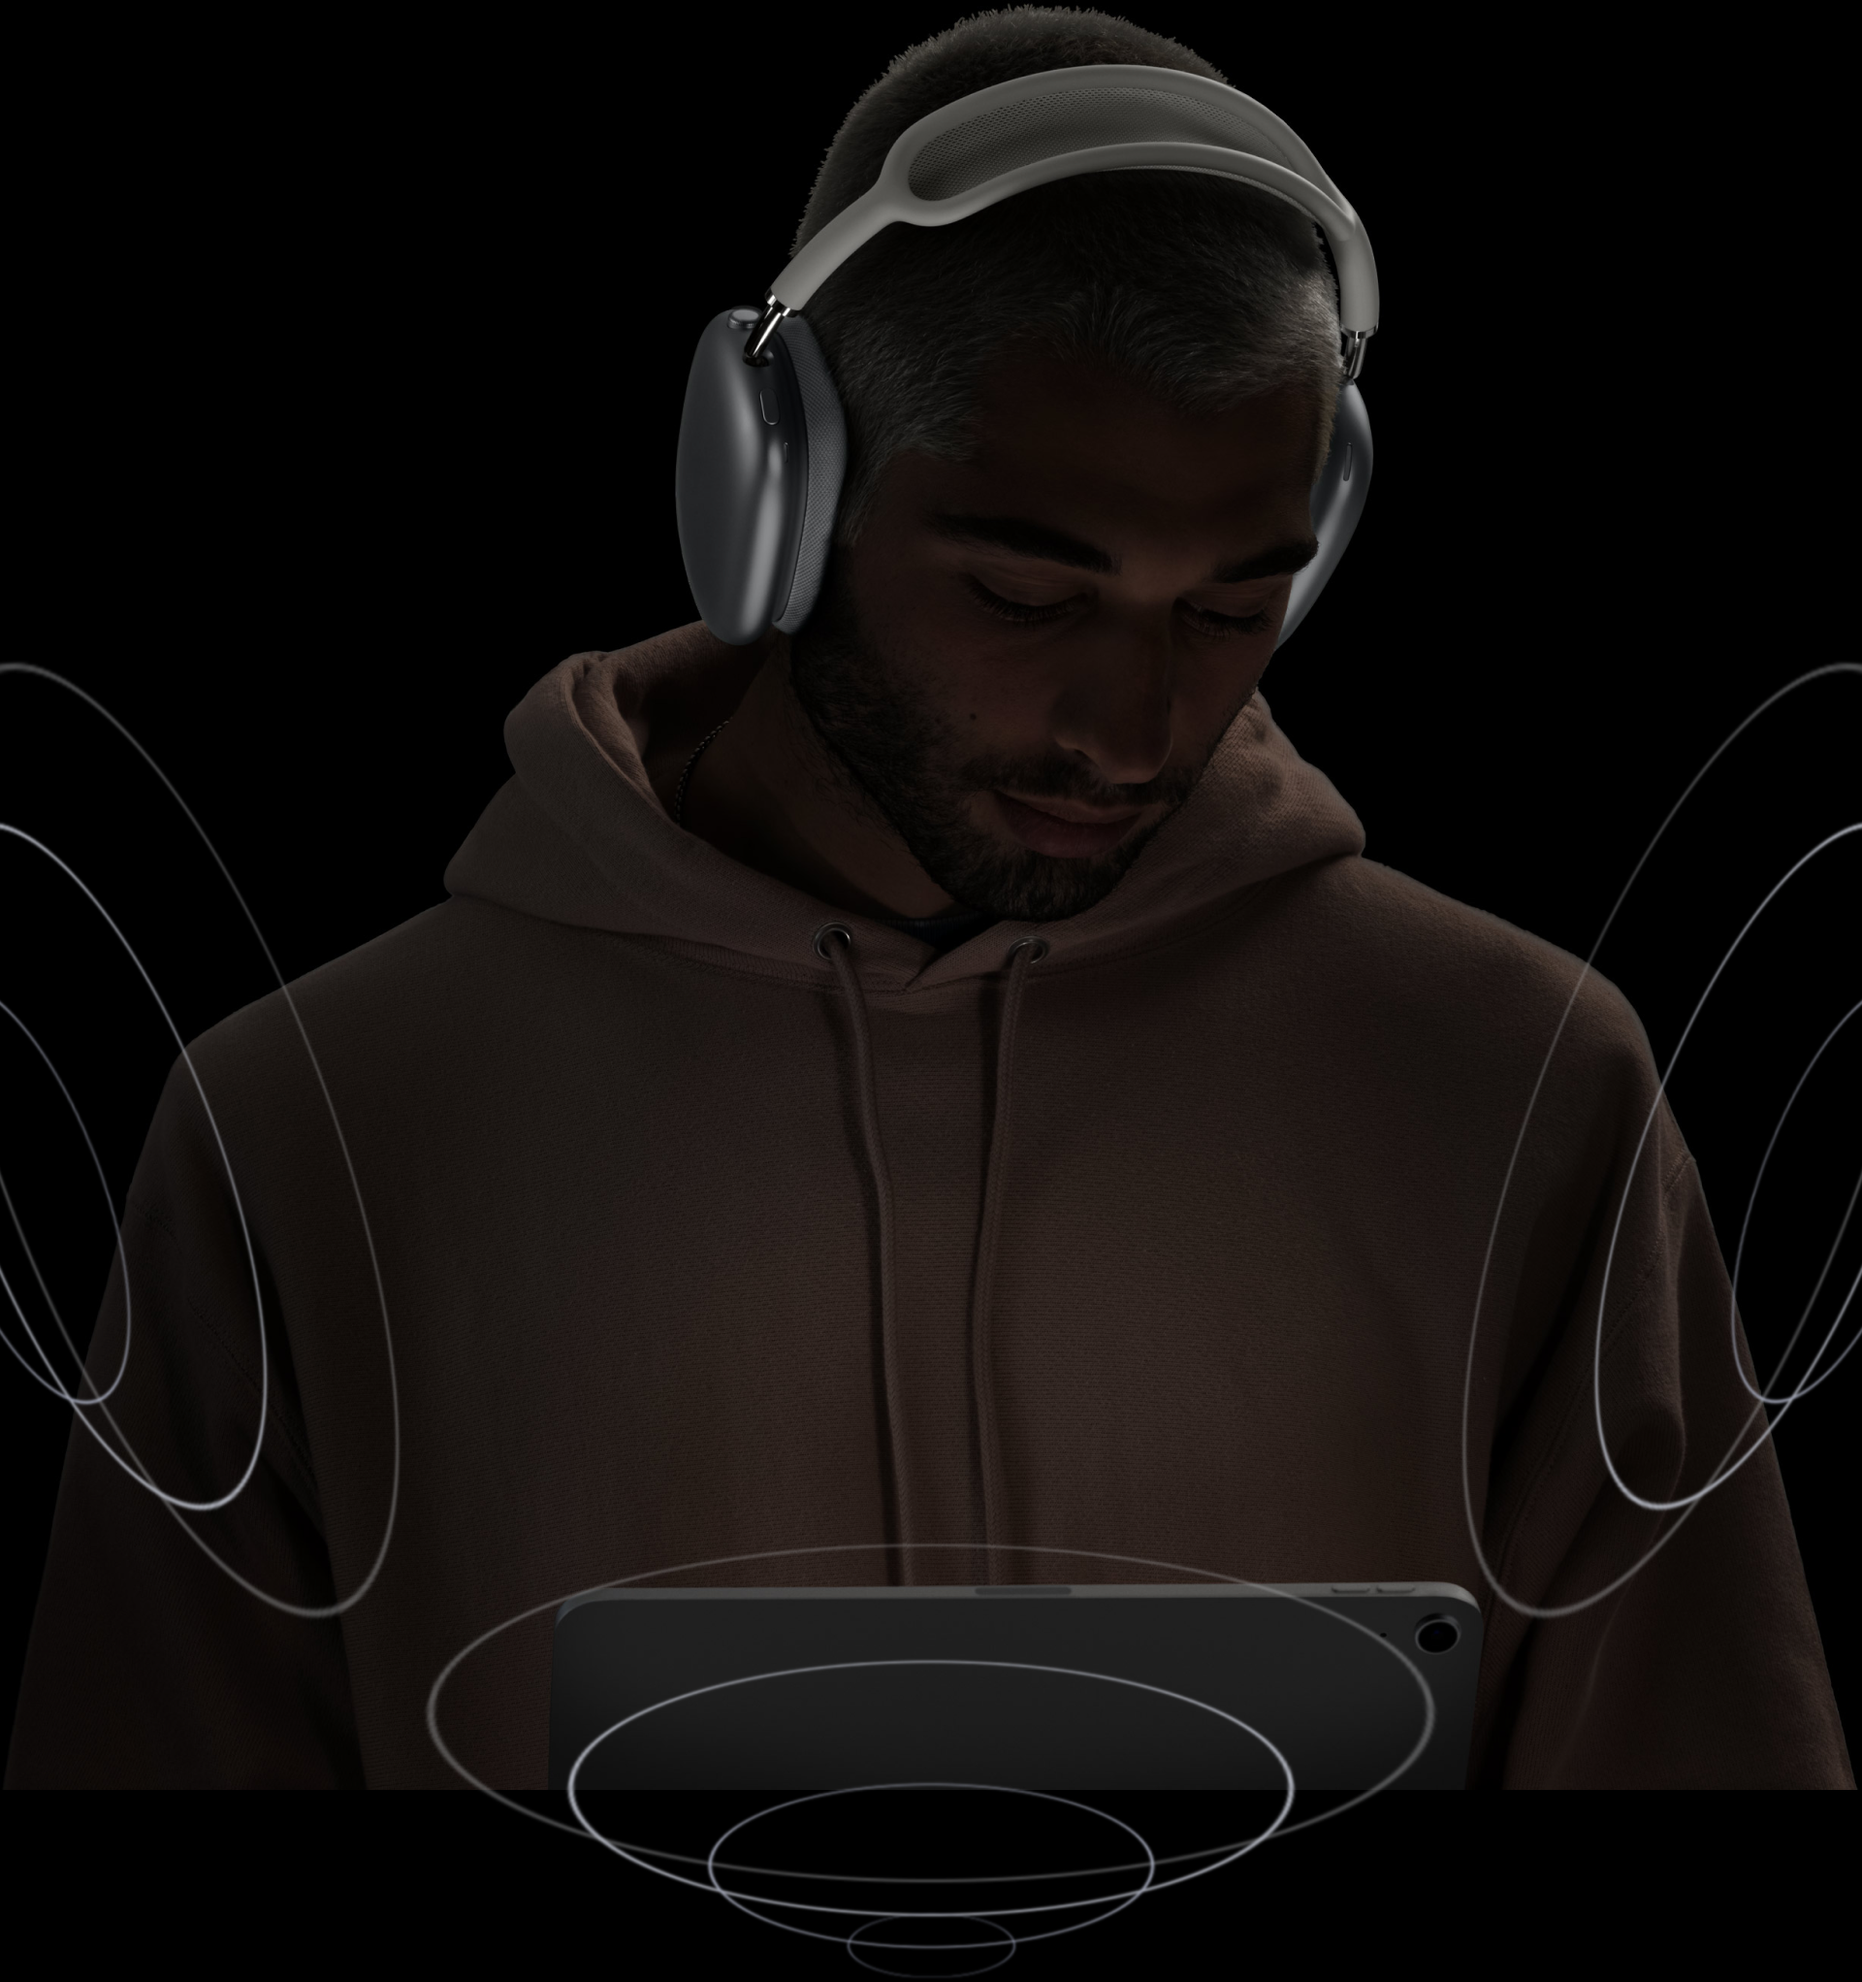
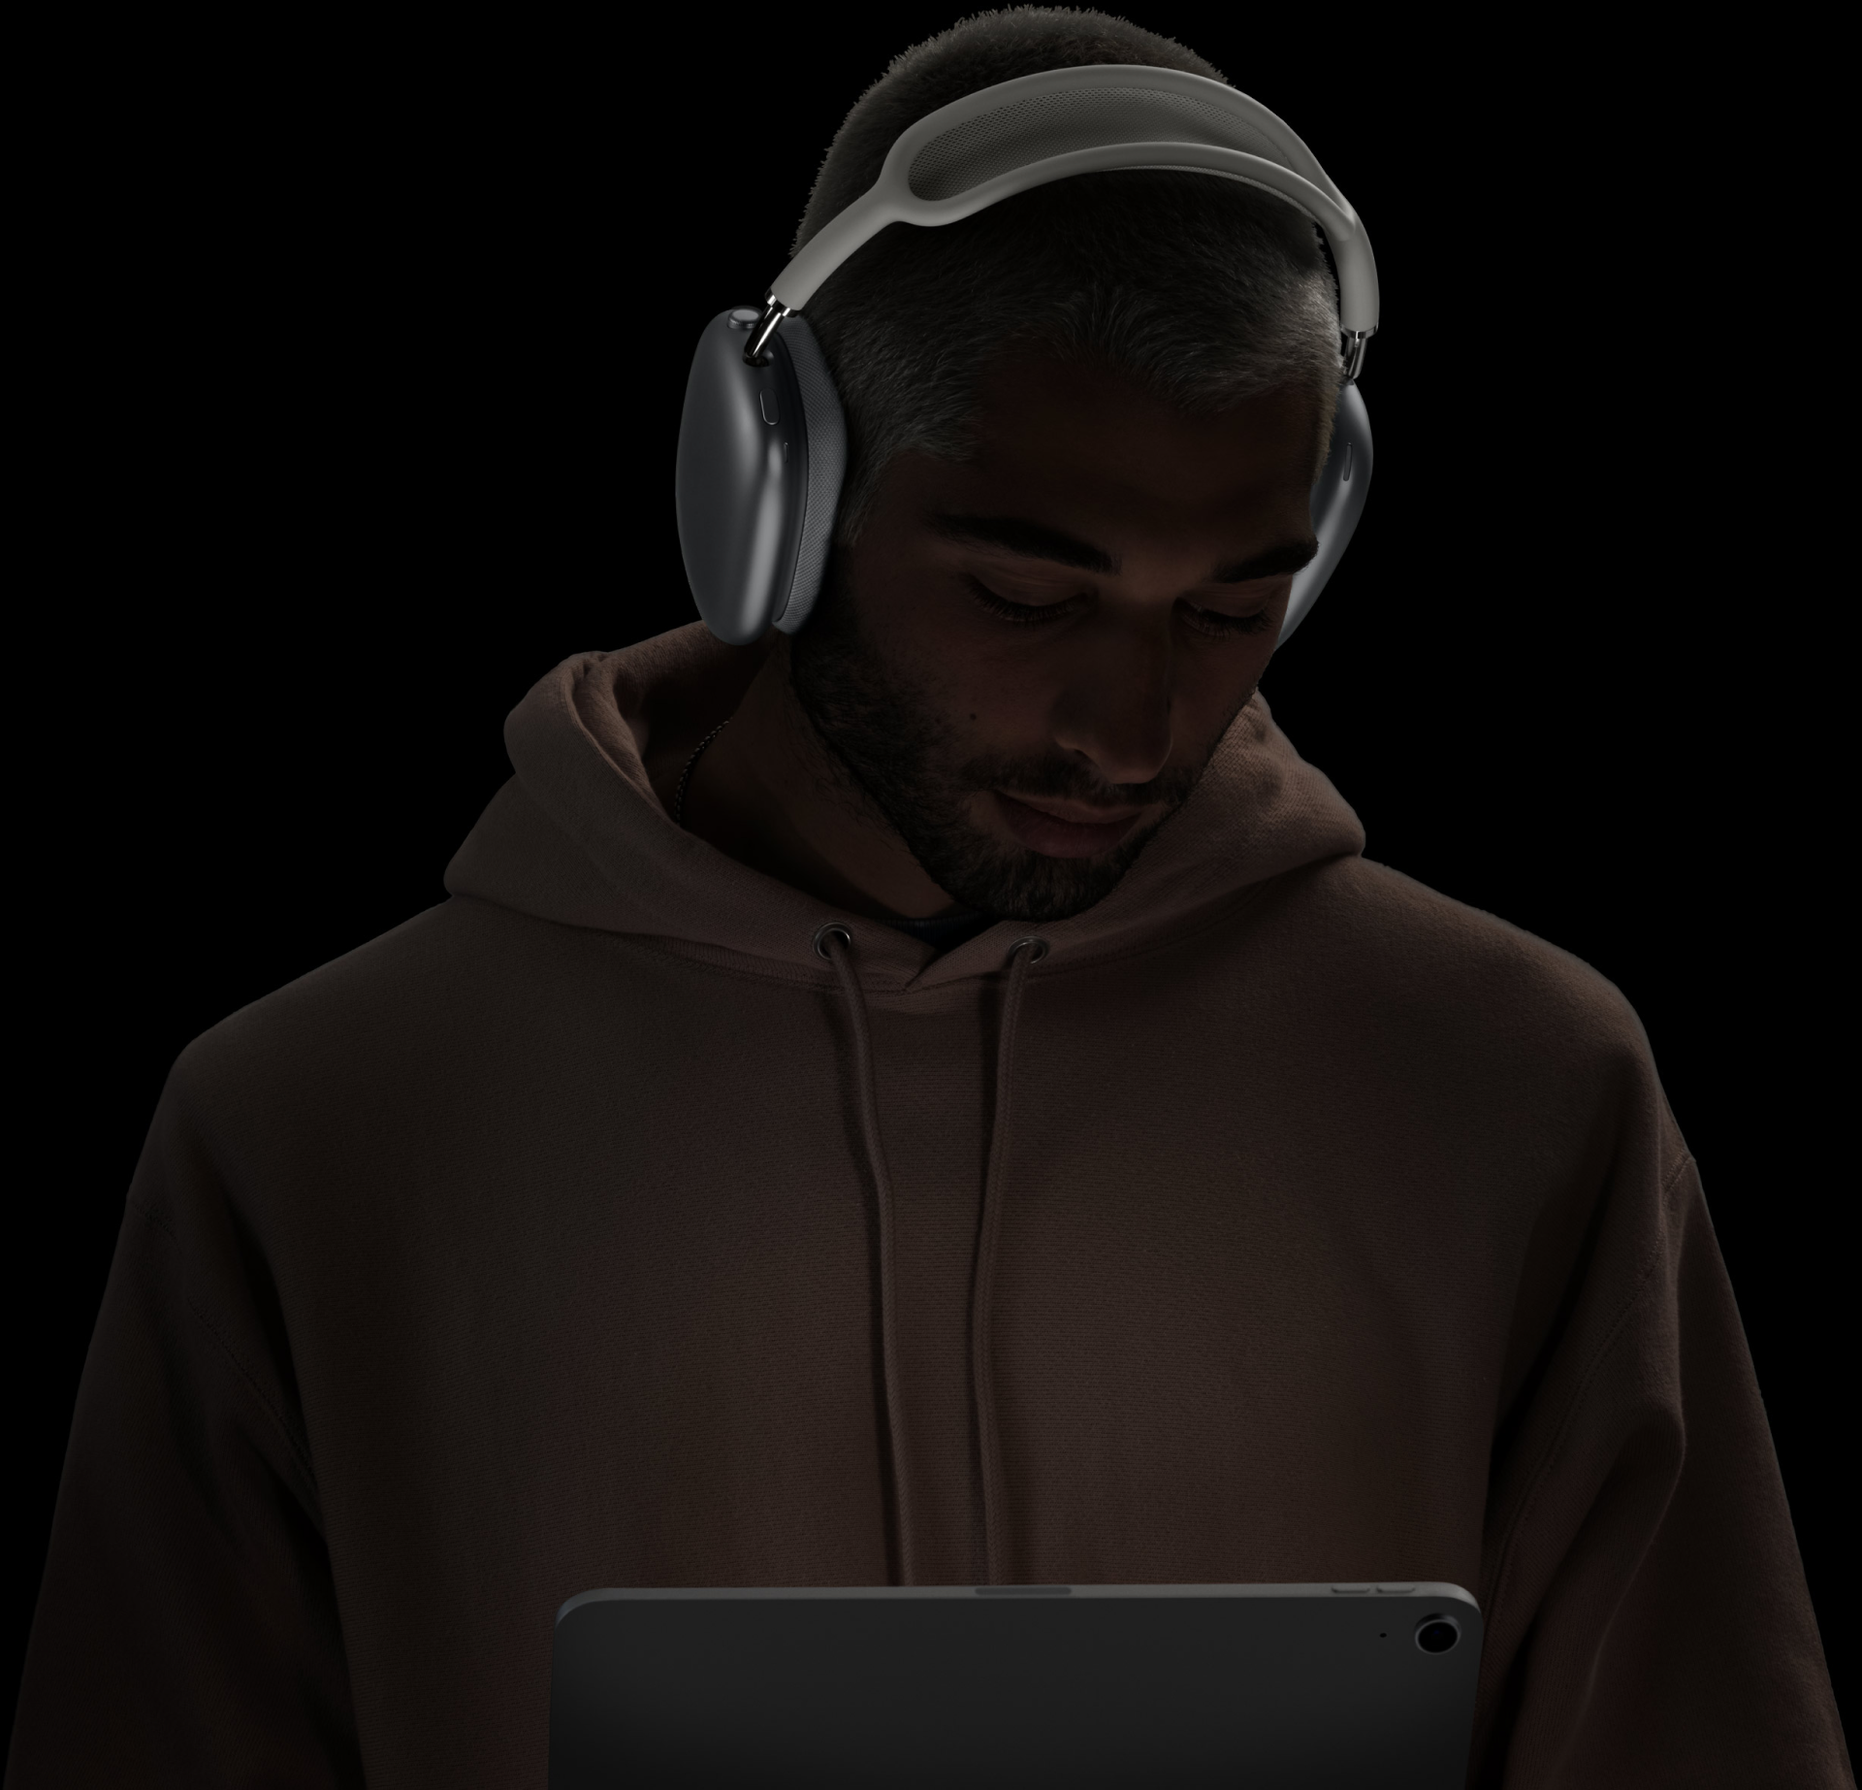
Доделал, осталось поработать с js

diff --git a/css/style.css b/css/style.css
@@ -219,6 +219,61 @@ ul {
     margin: 40px auto 0;
 }
 
+.sound {
+    background-image: url(../images/man.png);
+    background-size: cover;
+    background-repeat: no-repeat;
+    background-position: top center;
+    position: relative;
+}
+
+.sound::after {
+    content: '';
+    width: 100%;
+    height: 150vh;
+    background-image: url(../images/sound.png);
+    background-size: cover;
+    background-repeat: no-repeat;
+    background-position: bottom center;
+    position: absolute;
+    right: 0;
+    bottom: -175px;
+    left: 0;
+}
+
+.sound__box {
+    padding-bottom: 40vh;
+}
+
+.sound__text {
+    max-width: 300px;
+    margin: 0 auto 30px;
+    text-align: center;
+    color: #fff;
+    line-height: 130%;
+}
+
+.sound__inner {
+    min-height: 230vh;
+    display: flex;
+    align-items: flex-end;
+    justify-content: center;
+}
+
+.sound__button {
+    margin: 0 auto;
+    padding: 15px 58px;
+    position: relative;
+    z-index: 10;
+    display: block;
+    border-radius: 30px;
+    transition: all .1s;
+    color: #000;
+    background: #fff;
+    border: none;
+    cursor: pointer;
+}
+
 .footer {
     padding: 250px 0 40px;
     text-align: center;
@@ -232,9 +287,11 @@ ul {
     flex-direction: column;
     gap: 20px 0;
 }
-.copyright{
+
+.copyright {
     margin-top: 80px;
 }
-.copyright__link + .copyright__link{
-    margin:0 20px;
+
+.copyright__link+.copyright__link {
+    margin: 0 20px;
 }

diff --git a/index.html b/index.html
@@ -126,7 +126,25 @@
       </p>
     </div>
   </section>
-
+  <section class="sound">
+    <div class="container">
+      <div class="sound__inner">
+        <div class="sound__box">
+          <p class="sound__text">Custom Spatial Audio with dynamic head tracking provides a surround sound experience
+            worthy of a movie theatere.
+          </p>
+          <p class="sound__text"> Through built-in gyroscopes and accelerometers, AirPods Max and your iPhone, iPad, Mac
+            or Apple TV detect the slightest head movements and keep the sound steady on your devic</p>
+          <p class="sound__text">
+            And with Apple Music, custom Spatial Audio with dynamic head tracking creates a unique three-dimensional
+            listening experience.</p>
+          <button class="sound__button">
+            BUY
+          </button>
+        </div>
+      </div>
+    </div>
+  </section>
 
   <footer class="footer">
     <div class="container">
